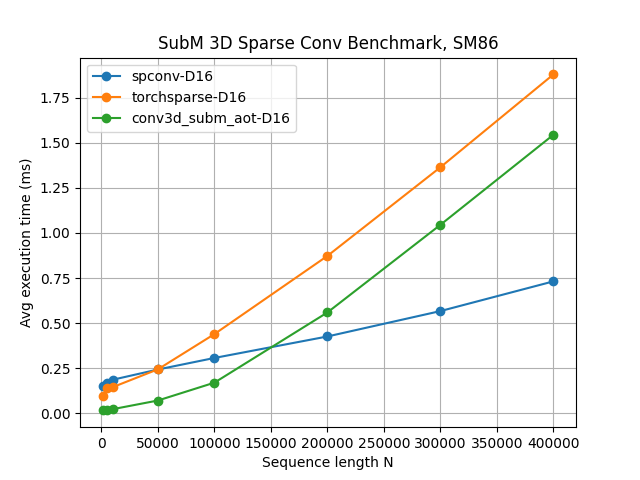
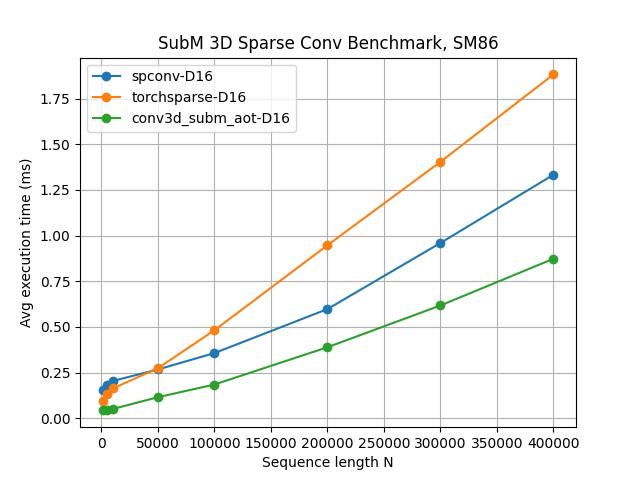
update benchs on natural data

Changed region(s): [[0.0625, 0.25, 0.9062, 0.9062], [0.4688, 0.1875, 0.9062, 0.25], [0.0625, 0.1875, 0.125, 0.2188]]

diff --git a/test_gen_idx.py b/test_gen_idx.py
@@ -1,11 +1,51 @@
-
+import glob
 import torch
 import ops.idx_gen
 
-idx = torch.randint(0, 100, (100000, 4), device='cuda', dtype=torch.int32)
+def generate_random_coords(N, max_coord=100, batch_size=1, device='cuda'):
+    coords = torch.randint(0, max_coord, (N, 3), device=device)
+    batch_ids = torch.randint(0, batch_size, (N, 1), device=device)
+    return torch.cat([batch_ids, coords], dim=1).int()
 
-ops.idx_gen.gen_conv3d_subm_indices(idx, 3)
+def get_voxel_coords(max_seq: int, device='cuda'):
+    coords = []
+    for f in glob.glob('example_pts/*.pt'):
+        data = torch.load(f, map_location=device)
+        coords.append(data)
 
-ops.idx_gen.gen_conv3d_indices(idx, [1, 100, 100, 100], 3, stride=2, padding=0)
-torch.cuda.synchronize()
-print(idx)
+    coords = torch.cat(coords, dim=0)
+    return coords[:max_seq].int()
+
+def get_spatial_range(coords):
+    return (coords.max(dim=0).values + 1).int().tolist()
+
+
+# ncu --set full --target-processes all -o idx_gen -f --profile-from-start off python test_gen_idx.py 
+
+N = 400_000
+D = 32
+K = 3
+S = 2
+
+idx_rand = generate_random_coords(N, max_coord=1000, batch_size=1, device='cuda')
+spatial_range_rand = get_spatial_range(idx_rand)
+idx_actual = get_voxel_coords(N, device='cuda')
+idx_actual = idx_actual[torch.randperm(idx_actual.size(0))]
+spatial_range_actual = get_spatial_range(idx_actual)
+print(spatial_range_actual, spatial_range_rand)
+
+torch.cuda.cudart().cudaProfilerStart()
+ops.idx_gen.gen_conv3d_subm_indices(idx_rand, K)
+ops.idx_gen.gen_conv3d_subm_indices(idx_actual, K, threads=1024)
+ops.idx_gen.gen_conv3d_subm_indices(idx_actual, K, threads=512)
+ops.idx_gen.gen_conv3d_subm_indices(idx_actual, K, threads=256)
+ops.idx_gen.gen_conv3d_subm_indices(idx_actual, K, threads=128)
+
+
+c1, r1 = ops.idx_gen.gen_conv3d_indices(idx_rand, spatial_range_rand, K, S, hash_map_multiplier=2)
+c2, r2 = ops.idx_gen.gen_conv3d_indices(idx_actual, spatial_range_actual, K, S, hash_map_multiplier=2, lookup_tries=64)
+c2, r2 = ops.idx_gen.gen_conv3d_indices(idx_actual, spatial_range_actual, K, S, hash_map_multiplier=2, threads=512, lookup_tries=64)
+c2, r2 = ops.idx_gen.gen_conv3d_indices(idx_actual, spatial_range_actual, K, S, hash_map_multiplier=2, threads=256, lookup_tries=64)
+c2, r2 = ops.idx_gen.gen_conv3d_indices(idx_actual, spatial_range_actual, K, S, hash_map_multiplier=8, threads=128, lookup_tries=64)
+torch.cuda.cudart().cudaProfilerStop()
+

diff --git a/bench.py b/bench.py
@@ -1,5 +1,6 @@
 # %%
 import time
+import glob
 import ops
 import argparse
 
@@ -32,6 +33,15 @@ def generate_random_coords(N, max_coord=50, batch_size=2, device='cuda'):
     xyz = torch.randint(0, max_coord, (N, 3), device=device)
     return torch.cat([batch, xyz], dim=1).int()
 
+
+def get_voxel_coords(max_seq: int, device='cuda'):
+    coords = []
+    for f in glob.glob('example_pts/*.pt'):
+        data = torch.load(f, map_location=device)
+        coords.append(data)
+
+    coords = torch.cat(coords, dim=0)
+    return coords[:max_seq].int()
 
 class ImplBase:
     name = 'base'
@@ -125,9 +135,8 @@ class NaiveConv3D(ImplBase):
 
 def benchmark_impl(impl_cls: type[ImplBase], Ns, Ds, warmup=10, runs=50, device='cuda', dtype=torch.float16):
     results = {D: [] for D in Ds}
-    batch = 1
-    max_coord = 1024
-    spatial_range = [batch, max_coord, max_coord, max_coord]
+    vox_coords = get_voxel_coords(max_seq=max(Ns), device=device)
+    spatial_range = (vox_coords.max(dim=0).values + 1).tolist()  # [batch_size, x, y, z]
 
     with torch.autocast(device_type=device, dtype=torch.float16):
         for D in Ds:
@@ -136,7 +145,8 @@ def benchmark_impl(impl_cls: type[ImplBase], Ns, Ds, warmup=10, runs=50, device=
             for N in Ns:
                 # generate data
                 feats = torch.randn(N, D, device=device, dtype=dtype)
-                coords = generate_random_coords(N, max_coord=max_coord, batch_size=batch, device=device)
+                # coords = generate_random_coords(N, max_coord=max_coord, batch_size=batch, device=device)
+                coords = vox_coords[:N]
                 # warmup
                 for _ in range(warmup):
                     _ = impl.forward(feats, coords, spatial_range)

diff --git a/ops/idx_gen.py b/ops/idx_gen.py
@@ -4,8 +4,8 @@ from typing import List
 import torch
 from torch import Tensor
 
-def gen_conv3d_subm_indices(coords: Tensor, kernel_size: int = 3, hash_map_multiplier: float = 8.0) -> Tensor:
-    return torch.ops.convIdx.generate_conv3d_subm_indices(coords, kernel_size, hash_map_multiplier)
+def gen_conv3d_subm_indices(coords: Tensor, kernel_size: int = 3, hash_map_multiplier: float = 4.0, threads: int = 128, lookup_tries: int = 32) -> Tensor:
+    return torch.ops.convIdx.generate_conv3d_subm_indices(coords, kernel_size, hash_map_multiplier, threads, lookup_tries)
 
 
 def gen_conv3d_indices(
@@ -14,7 +14,9 @@ def gen_conv3d_indices(
     kernel_size: int = 3,
     stride: int | List[int] = 1,
     padding: int | List[int] = 0,
-    hash_map_multiplier: float = 8.0,
+    hash_map_multiplier: float = 2.0,
+    threads: int = 256,
+    lookup_tries: int = 128
 ) -> tuple[Tensor, Tensor]:
     """
     Generate indices for 3D sparse convolution.
@@ -58,4 +60,6 @@ def gen_conv3d_indices(
         max_y,
         max_z,
         hash_map_multiplier,
+        threads,
+        lookup_tries
     )
